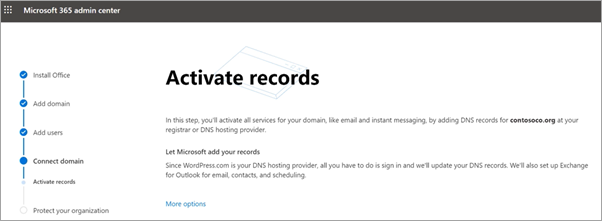
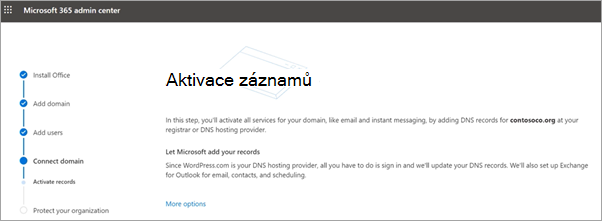
commit translated contents

Changed region(s): [[0.2691, 0.2986, 0.5382, 0.4072]]

diff --git a/microsoft-365/business/protection-settings-for-windows-10-devices.md b/microsoft-365/business/protection-settings-for-windows-10-devices.md
@@ -1,5 +1,5 @@
 ---
-title: Úprava nebo nastavení ochrany aplikací pro zařízení s Windows 10
+title: Úprava nebo nastavení ochrany aplikací pro Windows 10 zařízení
 f1.keywords:
 - NOCSH
 ms.author: sharik
@@ -28,15 +28,15 @@ search.appverid:
 - MET150
 - MOE150
 ms.assetid: 02e74022-44af-414b-9d74-0ebf5c2197f0
-description: Zjistěte, jak vytvářet nebo upravovat zásady správy aplikací a chránit pracovní soubory na osobních zařízeních s Windows 10 vašich uživatelů.
-ms.openlocfilehash: aa270c563e6bdce6fd48f8713d7db3ce23921925
-ms.sourcegitcommit: 53acc851abf68e2272e75df0856c0e16b0c7e48d
+description: Zjistěte, jak vytvářet nebo upravovat zásady správy aplikací a chránit pracovní soubory na osobních Windows 10 zařízeních uživatelů.
+ms.openlocfilehash: 6d38d1765e0a331516b2261870112d530ab4ee50f24c6defba95964ea4d9dcfa
+ms.sourcegitcommit: a1b66e1e80c25d14d67a9b46c79ec7245d88e045
 ms.translationtype: MT
 ms.contentlocale: cs-CZ
-ms.lasthandoff: 04/02/2021
-ms.locfileid: "51580008"
+ms.lasthandoff: 08/05/2021
+ms.locfileid: "53852646"
 ---
-# <a name="set-or-edit-application-protection-settings-for-windows-10-devices"></a>Nastavení nebo úpravy nastavení ochrany aplikací pro zařízení s Windows 10
+# <a name="set-or-edit-application-protection-settings-for-windows-10-devices"></a>Nastavení nebo úprava nastavení ochrany aplikací pro Windows 10 zařízení
 
 Tento článek se týká Microsoft 365 Business Premium.
 
@@ -44,7 +44,7 @@ Tento článek se týká Microsoft 365 Business Premium.
 
 1. Přejděte do Centra pro správu na adrese <a href="https://go.microsoft.com/fwlink/p/?linkid=837890" target="_blank">https://admin.microsoft.com</a> .     
 2. V levém navigačním panelu zvolte **Zásady** \> **zařízení** .
-1. Zvolte existující zásady aplikace pro Windows a pak **Upravit**.
+1. Zvolte existující zásadu Windows aplikace a pak **Upravit**.
 1. Vedle **nastavení,** které chcete změnit, zvolte Upravit a pak **Uložit**.
 
 ## <a name="create-an-app-management-policy-for-windows-10"></a>Vytvoření zásady správy aplikací pro Windows 10
@@ -58,14 +58,14 @@ Pokud mají uživatelé osobní zařízení s Windows 10, na kterých dělají p
 5. V **části Typ zařízení** zvolte Osobní nebo **Vlastněné společností**. 
 6. Možnost **Šifrovat pracovní soubory** je zapnutá automaticky. 
 7. Pokud nechcete, aby uživatelé ukládali pracovní soubory na své počítače, **zapněte** možnost **Brání uživatelům v kopírování dat společnosti do osobních souborů a vynucuje, aby ukládali pracovní soubory na OneDrive pro firmy**. 
-9. Rozbalte **obnovit data na zařízeních s Windows.** Doporučujeme ho **zapnout.**
+9. Rozbalte **obnovit data na Windows zařízeních**. Doporučujeme ho **zapnout.**
     Než budete moct přejít do umístění certifikátu agenta obnovování dat, musíte nějaký nejprve vytvořit. Pokyny najdete v tématu Vytvoření a ověření certifikátu Agenta obnovení dat [systému souborů EFS (Encrypting File System) (DRA).](/windows/security/information-protection/windows-information-protection/create-and-verify-an-efs-dra-certificate)
     
     Ve výchozím nastavení jsou pracovní soubory šifrované pomocí tajného klíče, který je uložený v zařízení a přidružený k profilu uživatele. Soubor může otevřít a dešifrovat jenom uživatel. Pokud ovšem dojde ke ztrátě zařízení nebo odebrání uživatele, soubor může zůstat zašifrovaný. Správce může k dešifrování souboru použít certifikát Agenta obnovení dat (DRA).
     
     ![Browse to Data Recovery Agent certificate.](../media/7d7d664f-b72f-4293-a3e7-d0fa7371366c.png)
   
-10. Pokud **chcete přidat** další domény nebo umístění SharePointu Online, abyste měli jistotu, že jsou soubory ve všech uvedených aplikacích chráněné, rozbalte Zamknout další síťová a cloudová umístění. Pokud potřebujete zadat do jednoho z polí více než jednu položku, oddělte tyto položky středníkem (;).
+10. Rozbalte **Zamknout další** umístění v síti a cloudu, pokud chcete přidat další domény nebo SharePoint online umístění, abyste měli jistotu, že jsou soubory ve všech uvedených aplikacích chráněné. Pokud potřebujete zadat do jednoho z polí více než jednu položku, oddělte tyto položky středníkem (;).
     
     ![Expand Protect additional network and cloud locations, and enter domains or SharePoint Online sites you own.](../media/7afaa0c7-ba53-456d-8c61-312c45e09625.png)
   

diff --git a/microsoft-365/business/how-policies-protect-company-data.md b/microsoft-365/business/how-policies-protect-company-data.md
@@ -1,5 +1,5 @@
 ---
-title: Jak zásady v Microsoftu 365 pro firmy chrání firemní data
+title: Jak zásady v Microsoft 365 pro firmy chrání firemní data
 f1.keywords:
 - NOCSH
 ms.author: sharik
@@ -27,20 +27,20 @@ search.appverid:
 - MOE150
 ms.assetid: 665485be-2389-4f1d-9ef8-dbef19c6acdf
 description: Pokud chcete chránit firemní data na osobních zařízeních uživatelů, používejte zásady, které se zaměřují na konkrétní zařízení a skupiny zabezpečení.
-ms.openlocfilehash: 5c6a4b85b080c6c1afaf6ac5bec046f2a539ee20
-ms.sourcegitcommit: 53acc851abf68e2272e75df0856c0e16b0c7e48d
+ms.openlocfilehash: cb8bb7dc8c98e5860281ad265130e18dddefe00014928835e303ad8247b2e7ba
+ms.sourcegitcommit: a1b66e1e80c25d14d67a9b46c79ec7245d88e045
 ms.translationtype: MT
 ms.contentlocale: cs-CZ
-ms.lasthandoff: 04/02/2021
-ms.locfileid: "51578421"
+ms.lasthandoff: 08/05/2021
+ms.locfileid: "53852745"
 ---
-# <a name="how-policies-in-microsoft-365-for-business-protect-company-data"></a>Jak zásady v Microsoftu 365 pro firmy chrání firemní data
+# <a name="how-policies-in-microsoft-365-for-business-protect-company-data"></a>Jak zásady v Microsoft 365 pro firmy chrání firemní data
 
 Tento článek se týká Microsoft 365 Business Premium.
 
 [] Zásady, které vytvoříte, jsou specifické pro typ zařízení a lze je použít pro konkrétní skupinu uživatelů. To znamená, že můžete vytvořit jednu zásadu, která se bude vztahovat na vedení, a jinou, která se bude vztahovat na všechny ostatní.
   
-U zařízení s Androidem a iOSem můžete přidat nebo upravit zásady aplikací, které chrání aplikace Office a pracovní soubory používané aplikacemi Office. Zařízení s Windows 10 můžeme ovládat trochu víc, takže zásady aplikací zahrnovat další nastavení, jako je šifrování a ochrana síťových a cloudových umístění. U zařízení s Windows 10 také můžete vytvořit zásady zařízení, které vynucují nastavení, jako například ochrana proti virům nebo automatické aktualizace. Doporučujeme držet se zásad vytvořených během instalace, ale pokud chcete doladit zásady nebo přidat další, podívejte se na tyto články:
+U zařízení s Androidem a iOSem můžete přidat nebo upravit zásady aplikací, které chrání aplikace Office a pracovní soubory používané aplikacemi Office. Dokážeme ovládat Windows 10 zařízení, takže zásady aplikací zahrnovat další nastavení, jako je šifrování a ochrana síťových a cloudových umístění. U zařízení s Windows 10 také můžete vytvořit zásady zařízení, které vynucují nastavení, jako například ochrana proti virům nebo automatické aktualizace. Doporučujeme držet se zásad vytvořených během instalace, ale pokud chcete doladit zásady nebo přidat další, podívejte se na tyto články:
   
 [Nastavení konfigurací aplikací pro zařízení s Androidem nebo iOSem](app-protection-settings-for-android-and-ios.md)
   

diff --git a/microsoft-365/business/set-up.md b/microsoft-365/business/set-up.md
@@ -30,12 +30,12 @@ search.appverid:
 - MET150
 ms.assetid: 6e7a2dfd-8ec4-4eb7-8390-3ee103e5fece
 description: Podívejte se na postup nastavení Microsoft 365 Business Premium, včetně přidání domény a uživatelů, nastavení zásad zabezpečení a dalších možností.
-ms.openlocfilehash: 74a98e915577cf86ec32a706bd3b8f558f49db95
-ms.sourcegitcommit: 48195345b21b409b175d68acdc25d9f2fc4fc5f1
+ms.openlocfilehash: 8158e911a8520c07cf5f85fea8b64d65820d603d7f9f49938849ff2df6fc45ed
+ms.sourcegitcommit: a1b66e1e80c25d14d67a9b46c79ec7245d88e045
 ms.translationtype: MT
 ms.contentlocale: cs-CZ
-ms.lasthandoff: 06/30/2021
-ms.locfileid: "53227633"
+ms.lasthandoff: 08/05/2021
+ms.locfileid: "53881911"
 ---
 # <a name="set-up-microsoft-365-business-premium-in-the-setup-wizard"></a>Nastavení Microsoft 365 Business Premium v průvodci nastavením
 

diff --git a/microsoft-365/business/set-up-compliance.md b/microsoft-365/business/set-up-compliance.md
@@ -22,12 +22,12 @@ search.appverid:
 - BCS160
 - MET150
 description: Nastavte funkce dodržování předpisů, abyste zabránili ztrátě dat a zajistili zabezpečení citlivých informací vašich zákazníků.
-ms.openlocfilehash: 945f8a283b90b89da2fbe67a073e0807b80d198f
-ms.sourcegitcommit: ff20f5b4e3268c7c98a84fb1cbe7db7151596b6d
+ms.openlocfilehash: ae5e5727db1f372c40aa4468329021525b6dfc8c5ebbf34705184e461df069e5
+ms.sourcegitcommit: a1b66e1e80c25d14d67a9b46c79ec7245d88e045
 ms.translationtype: MT
 ms.contentlocale: cs-CZ
-ms.lasthandoff: 05/06/2021
-ms.locfileid: "52245078"
+ms.lasthandoff: 08/05/2021
+ms.locfileid: "53881835"
 ---
 # <a name="set-up-compliance-features"></a>Nastavení funkcí dodržování předpisů
 
